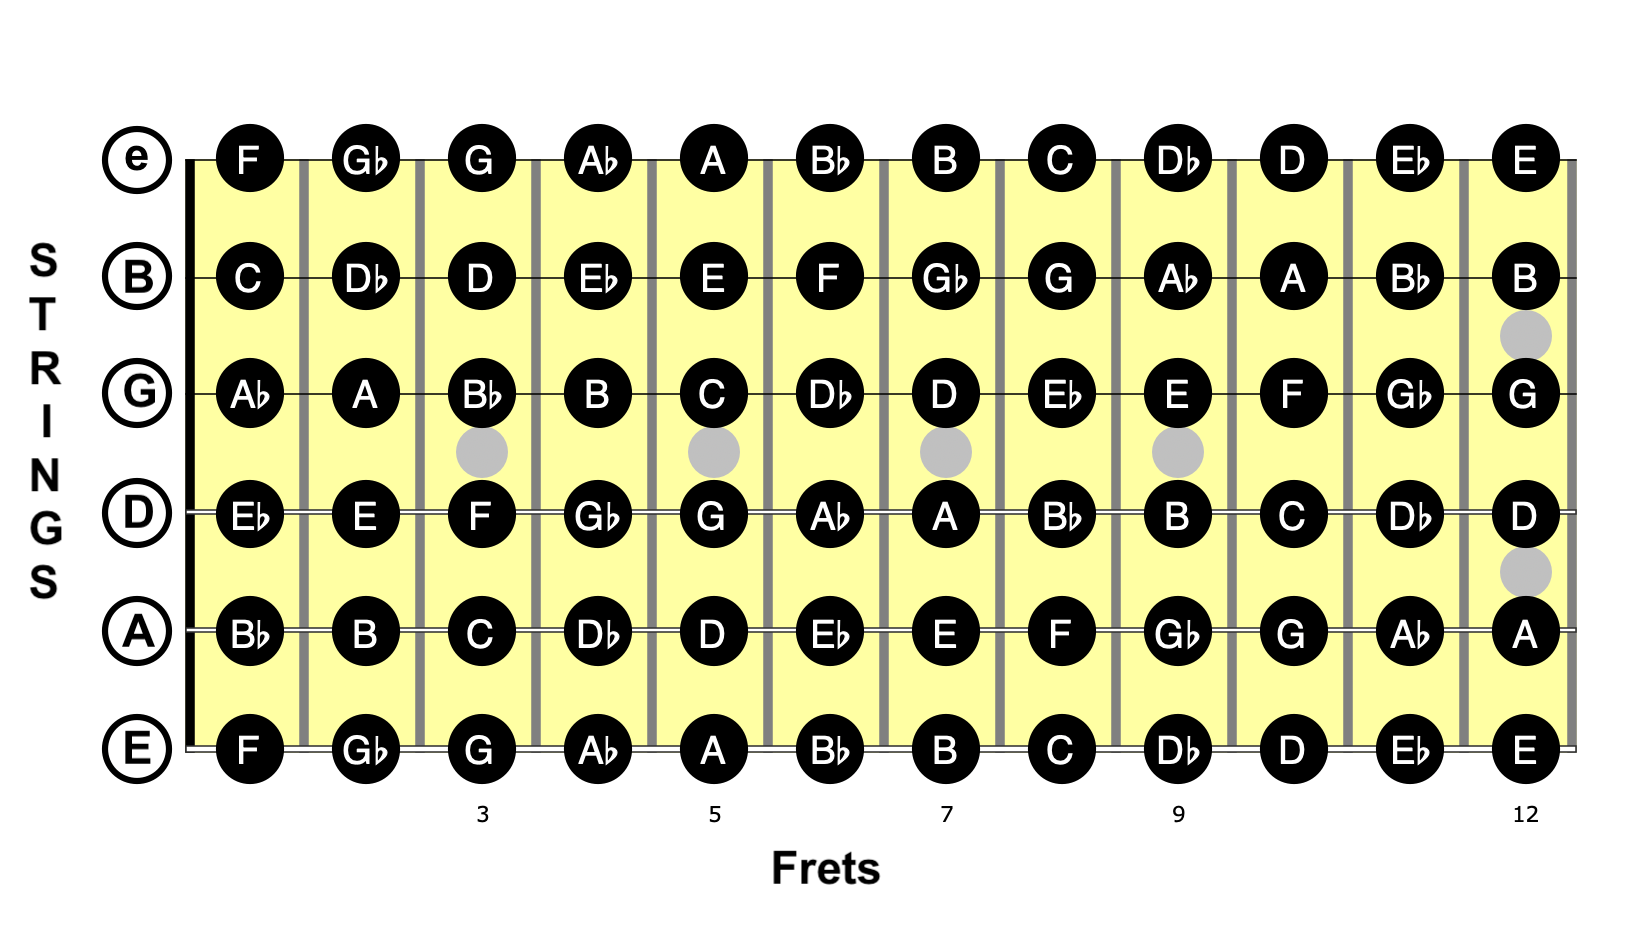
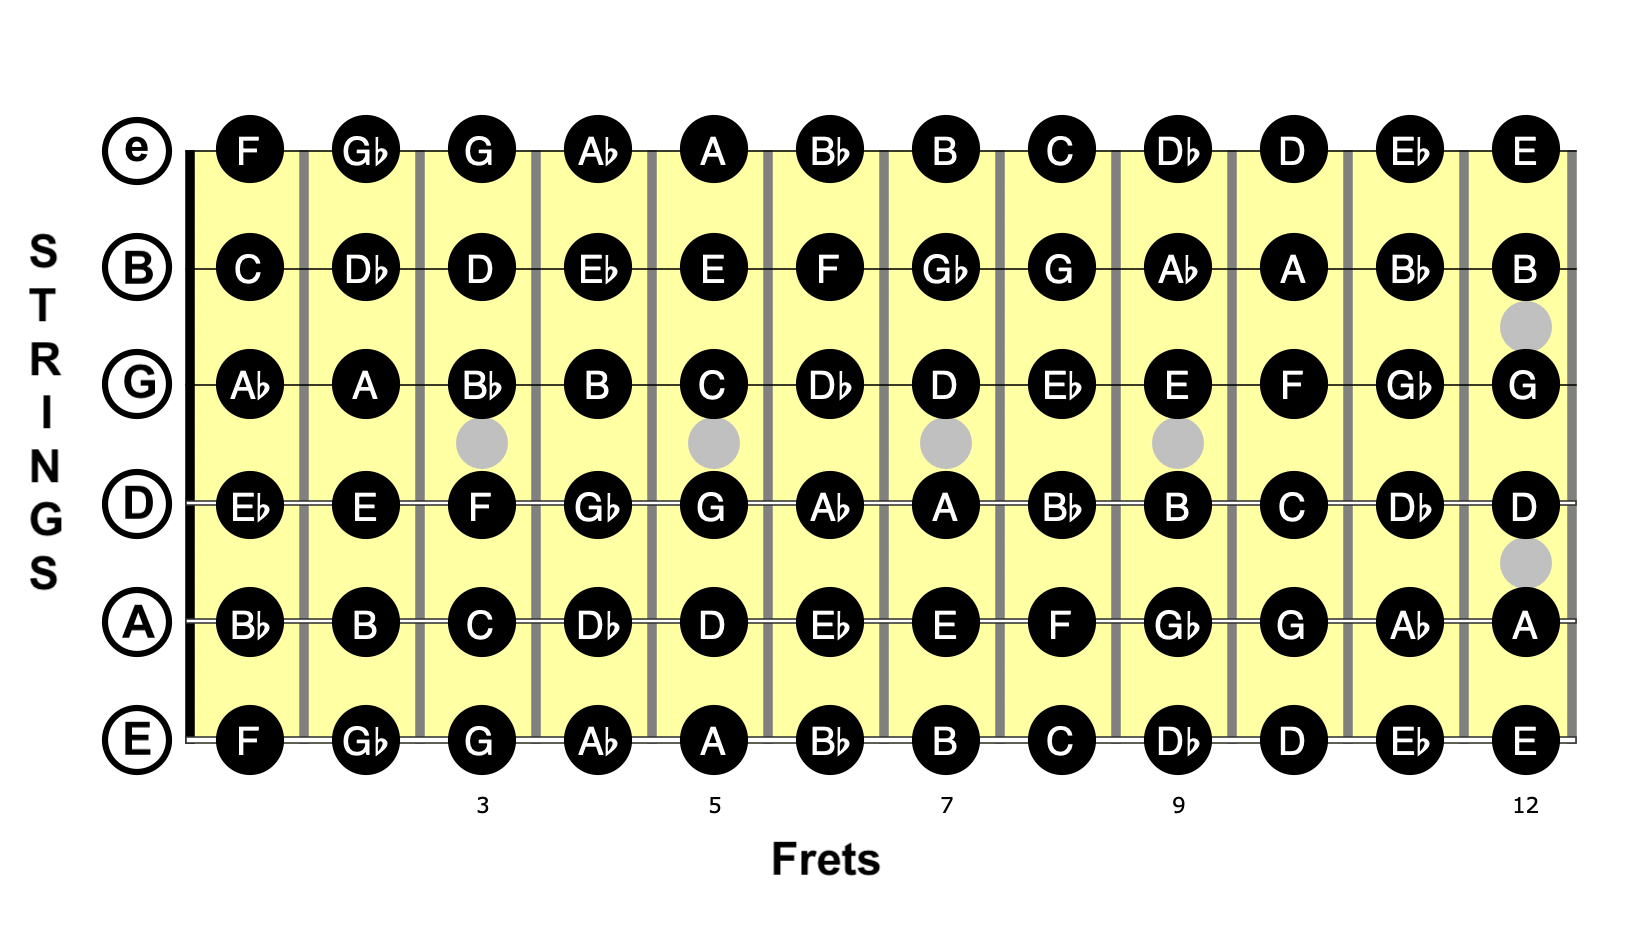
small edits, app is complete

diff --git a/frontend/src/components/singleKey/SingleKey.js b/frontend/src/components/singleKey/SingleKey.js
@@ -2,30 +2,9 @@ import sharps from '../Sharps.png'
 import flats from '../Flats.png'
 import './singleKey.css'
 import { useState, useEffect } from 'react'
-import { AiOutlineFullscreen, AiOutlineFullscreenExit } from 'react-icons/ai'
 
 const SKey = ({type}) => {
     const [sharpKey, setSharpKey] = useState(true)
-    const [isMaximized, setIsMaximized] = useState(false);
-
-    const toggleMaximize = () => {
-        setIsMaximized(!isMaximized);
-      };
-
-      const windowStyles = {
-        // Apply styles based on the maximize state
-        minWidth: isMaximized ? '100%' : '',
-        // minHeight: isMaximized ? 'auto' : '700px',
-        position: isMaximized ? 'fixed' : 'absolute',
-        top: isMaximized ? '0' : '150px',
-        left: isMaximized ? '0' : '50%',
-        transform: isMaximized ? 'none' : 'translateX(-50%)',
-        zIndex: isMaximized ? '999' : '0',
-      };
-
-    // To do:
-    // Still have a background fade color 
-    // but make sure you can click through it
 
     useEffect(() => {
         if (type) {
@@ -37,16 +16,11 @@ const SKey = ({type}) => {
 
     return (
         <div className="keyContainer">
-            <div className="window" style={windowStyles}>
+            <div className="window">
                 {
-                    sharpKey 
-                    ? <img src={sharps} alt="notes on the guitar using naturals and sharps" />
-                    : <img src={flats} alt="notes on the guitar using naturals and flats" />
-                }
-                {
-                    isMaximized
-                    ? <AiOutlineFullscreenExit className='minimize' onClick={toggleMaximize} />
-                    : <AiOutlineFullscreen className='maximize' onClick={toggleMaximize} />
+                sharpKey 
+                ? <img src={sharps} alt="notes on the guitar using sharps" />
+                : <img src={flats} alt="notes on the guitar using flats" />
                 }
             </div>
         </div>

diff --git a/frontend/src/components/single/single.css b/frontend/src/components/single/single.css
@@ -17,7 +17,7 @@
 }
 
 .singleScoresBanner p {
-    font-size: 18px;
+    font-size: 1.2rem;
     font-weight: 500;
     color: linear-gradient(to right, white, red);
 }
@@ -164,4 +164,17 @@
 
 .highlight {
     border: 2px solid var(--primary);
+    box-shadow: 0px 0px 30px 2px rgba(255, 255, 255, 0.7);
+}
+
+@media screen and (max-width: 420px) {
+    .singleScoresBanner p {
+        font-size: 1rem;
+    }
+
+    .singleScoresBanner span {
+        font-size: 1.2rem;
+        top: 1px;
+        left: 2px;
+    }
 }

diff --git a/frontend/src/components/singleKey/singleKey.css b/frontend/src/components/singleKey/singleKey.css
@@ -11,6 +11,7 @@
 .window {
     max-width: 600px;
     width: 100%;
+    margin: auto;
 }
 
 .window img {
@@ -18,7 +19,7 @@
     height: 100%;
     z-index: 10;
 }
-
+/* 
 .maximize {
     position: absolute;
     top: 1px;
@@ -43,4 +44,4 @@
     border-radius: 50%;
     color: var(--primary);
     cursor: pointer;
-}
+} */

diff --git a/frontend/src/components/navbar/navbar.css b/frontend/src/components/navbar/navbar.css
@@ -58,7 +58,7 @@
     text-decoration: none;
 }
 
-.navLink li {
+.navLink {
     font-size: 1.2rem;
     text-decoration: none;
     cursor: pointer;
@@ -127,7 +127,6 @@
 
     .navLink {
         font-size: 1.7rem;
-        /* border: 2px solid lime; */
         width: max-content;
         text-decoration: none;
     }
